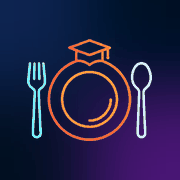
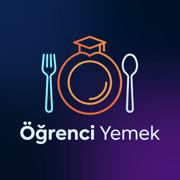
feat(pwa): PWA uygulama ikonlari yeni tam logoyla guncellendi (SW v14)

Changed region(s): [[0.1111, 0.1944, 0.8889, 0.8056]]

diff --git a/index.html b/index.html
@@ -32,17 +32,17 @@
     <meta name="twitter:image" content="https://ogrenciyemek.com/icons/og-image.png">
 
     <!-- PWA Manifest -->
-    <link rel="manifest" href="manifest.json">
+    <link rel="manifest" href="manifest.json?v=14">
 
     <!-- Favicon / uygulama ikonlari -->
-    <link rel="icon" href="icons/favicon.ico" sizes="any">
-    <link rel="icon" href="icons/favicon-16.png" sizes="16x16" type="image/png">
-    <link rel="icon" href="icons/favicon-32.png" sizes="32x32" type="image/png">
-    <link rel="icon" href="icons/icon-192.png" sizes="192x192" type="image/png">
-    <link rel="apple-touch-icon" href="icons/apple-touch-icon.png">
+    <link rel="icon" href="icons/favicon.ico?v=14" sizes="any">
+    <link rel="icon" href="icons/favicon-16.png?v=14" sizes="16x16" type="image/png">
+    <link rel="icon" href="icons/favicon-32.png?v=14" sizes="32x32" type="image/png">
+    <link rel="icon" href="icons/icon-192.png?v=14" sizes="192x192" type="image/png">
+    <link rel="apple-touch-icon" href="icons/apple-touch-icon.png?v=14">
 
     <!-- Styles -->
-    <link rel="stylesheet" href="css/style.css?v=13">
+    <link rel="stylesheet" href="css/style.css?v=14">
 
     <!-- Acil durum kurtarma: Beklenmedik bir JS hatasinda dahi ana ekranin asla bos zeminde kalmamasini garanti eder -->
     <script>
@@ -100,7 +100,7 @@
             <!-- Telefona Yükle (PWA) -->
             <div class="install-card" id="install-card" hidden>
                 <div class="install-card-top">
-                    <img class="install-card-icon" src="icons/icon-192.png" alt="" width="44" height="44" decoding="async">
+                    <img class="install-card-icon" src="icons/icon-192.png?v=14" alt="" width="44" height="44" decoding="async">
                     <div class="install-card-text">
                         <h3 class="install-card-title">Telefonuna yükle</h3>
                         <p class="install-card-desc" id="install-card-desc">
@@ -248,10 +248,10 @@
 </div>
 
 <!-- Scripts (order matters) -->
-<script src="js/storage.js?v=13"></script>
-<script src="js/data.js?v=13"></script>
-<script src="js/screens.js?v=13"></script>
-<script src="js/app.js?v=13"></script>
+<script src="js/storage.js?v=14"></script>
+<script src="js/data.js?v=14"></script>
+<script src="js/screens.js?v=14"></script>
+<script src="js/app.js?v=14"></script>
 
 </body>
 </html>

diff --git a/sw.js b/sw.js
@@ -1,5 +1,5 @@
 // ÖğrenciYemek Service Worker
-const CACHE_NAME = 'ogrenciyemek-v13';
+const CACHE_NAME = 'ogrenciyemek-v14';
 
 // Göreceli yollar: SW'nin bulunduğu dizine göre çözümlenir, böylece
 // hem alan adı kökünde hem de /OgrenciYemek/ alt dizininde çalışır.
@@ -7,24 +7,33 @@ const ASSETS_TO_CACHE = [
     './',
     './index.html',
     './css/style.css',
-    './css/style.css?v=13',
+    './css/style.css?v=14',
     './js/storage.js',
-    './js/storage.js?v=13',
+    './js/storage.js?v=14',
     './js/app.js',
-    './js/app.js?v=13',
+    './js/app.js?v=14',
     './js/data.js',
-    './js/data.js?v=13',
+    './js/data.js?v=14',
     './js/screens.js',
-    './js/screens.js?v=13',
+    './js/screens.js?v=14',
     './manifest.json',
+    './manifest.json?v=14',
     './icons/icon-192.png',
+    './icons/icon-192.png?v=14',
     './icons/icon-512.png',
+    './icons/icon-512.png?v=14',
     './icons/maskable-192.png',
+    './icons/maskable-192.png?v=14',
     './icons/maskable-512.png',
+    './icons/maskable-512.png?v=14',
     './icons/apple-touch-icon.png',
+    './icons/apple-touch-icon.png?v=14',
     './icons/favicon.ico',
+    './icons/favicon.ico?v=14',
     './icons/favicon-16.png',
-    './icons/favicon-32.png'
+    './icons/favicon-16.png?v=14',
+    './icons/favicon-32.png',
+    './icons/favicon-32.png?v=14'
 ];
 
 // -----------------------------------------------------------
